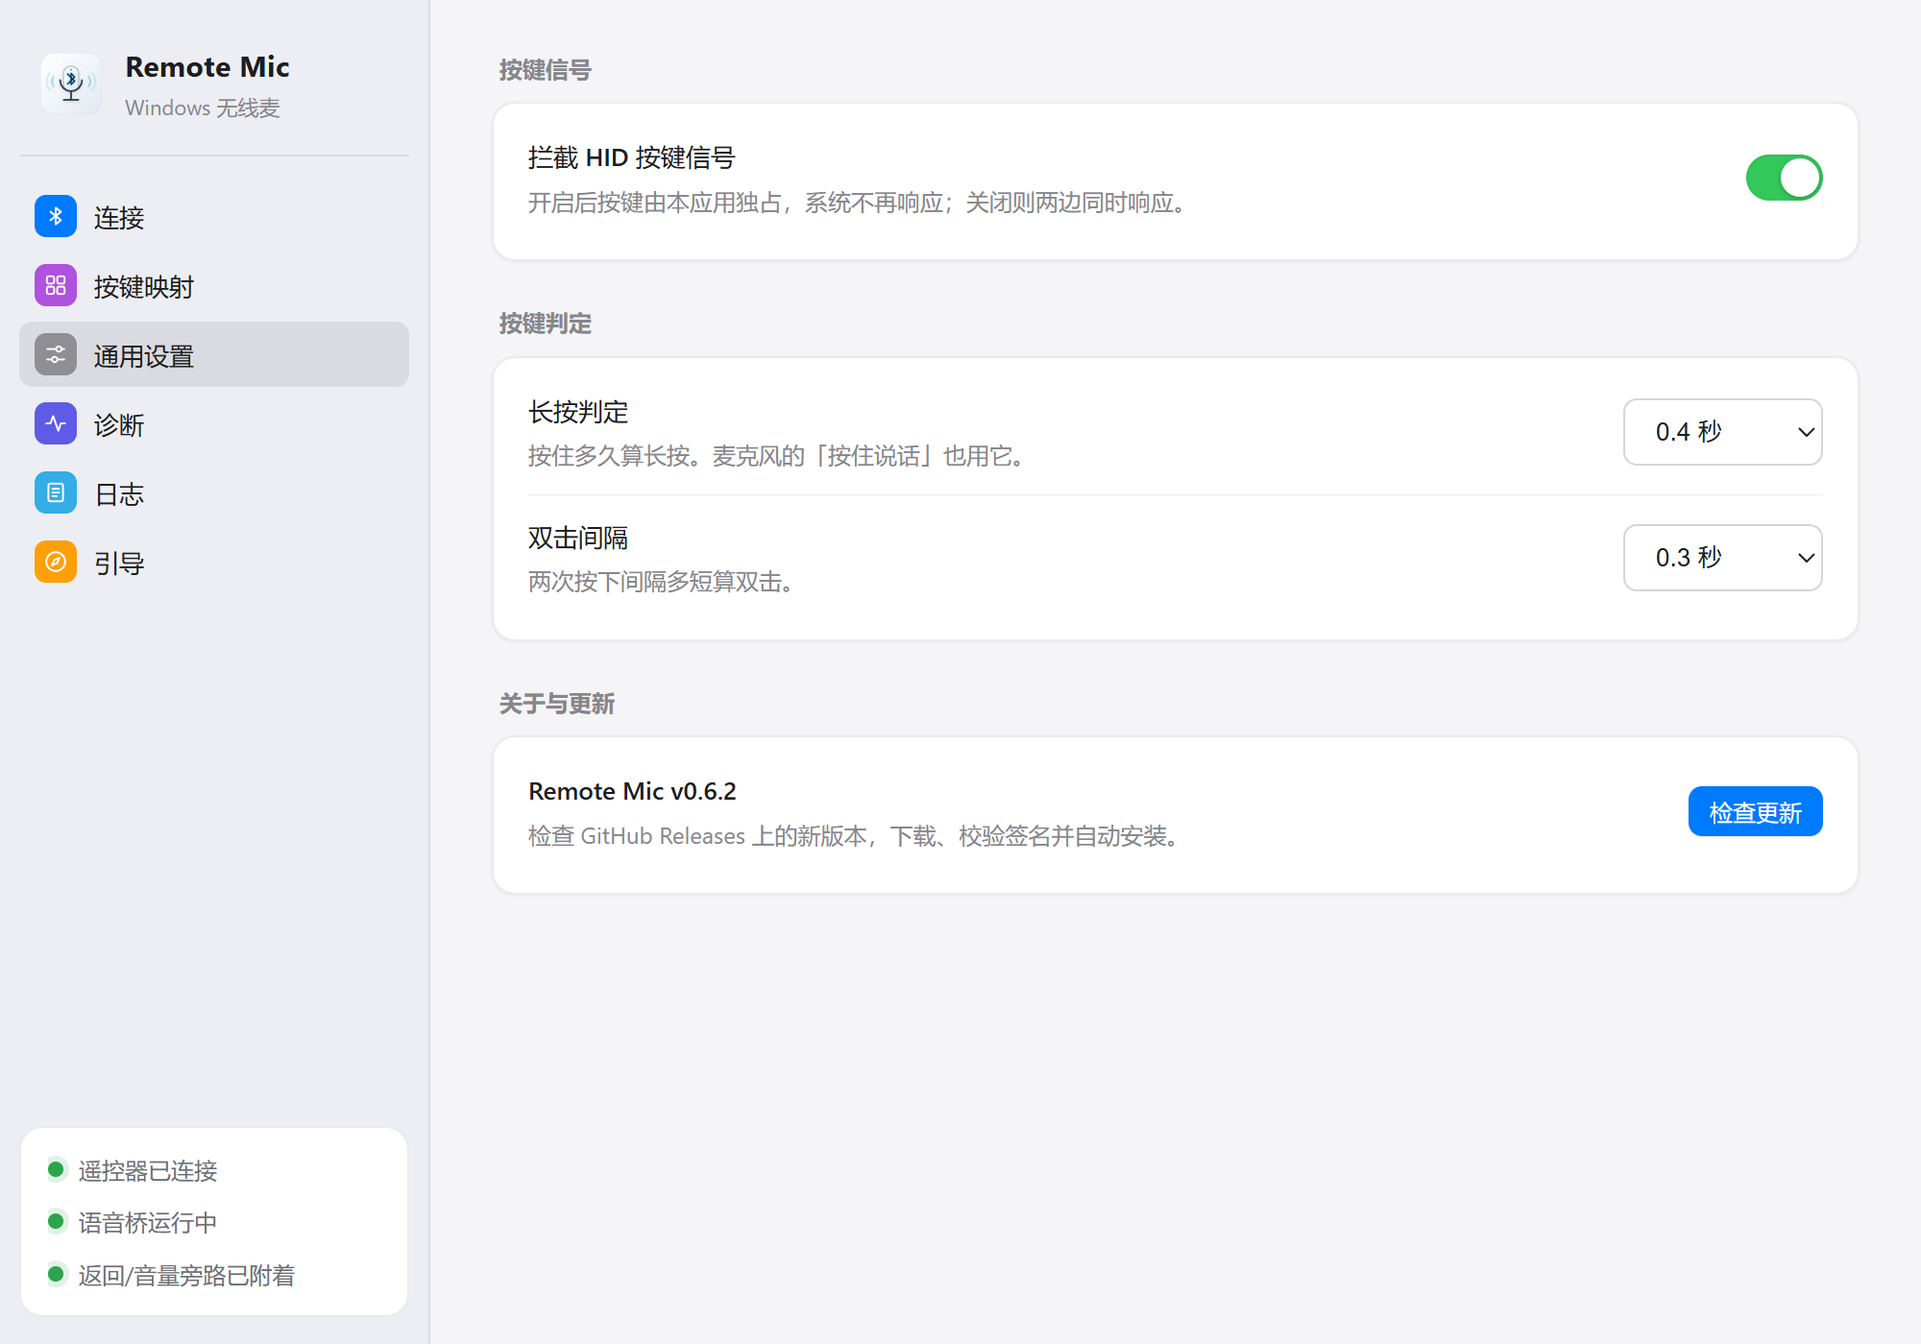
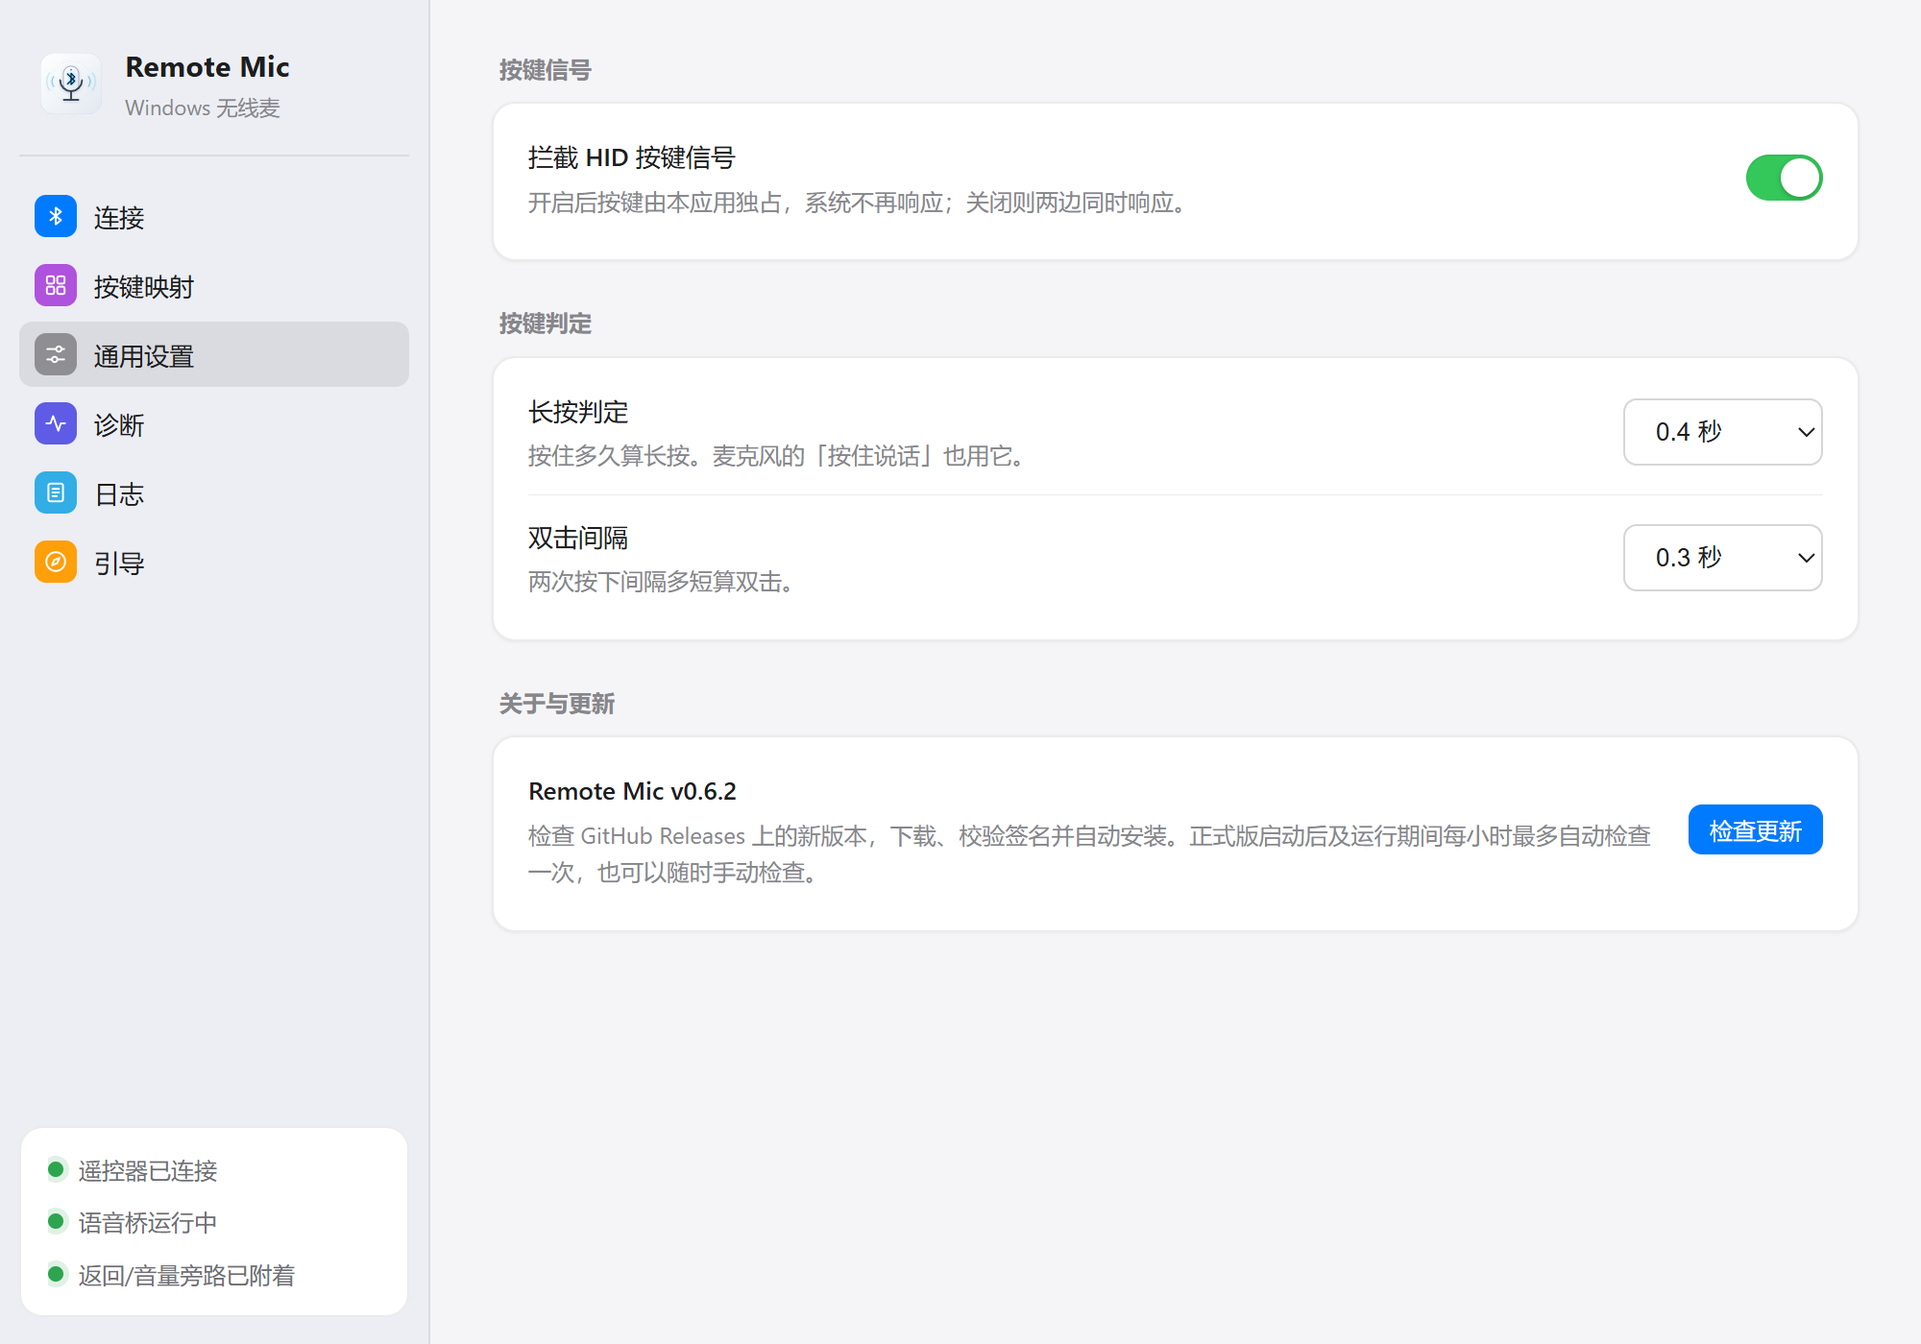
feat: 自动更新检查节奏（启动立即 + 30 分钟复查 + 1 小时联网门槛）
- 启动后立即异步检查一次（去掉原来的 6 秒延迟，不阻塞窗口显示）
- 运行期间每 30 分钟定时复查一次
- 启动检查与定时复查都要求距上次成功检查 ≥1 小时才真正联网，否则跳过；
  手动「检查更新」不受频率限制
- 上次成功检查时间持久化到 config.json 的 last_update_check_at（Unix 秒），
  重启后仍然生效；检查失败不更新时间戳
- 新增 commands/update.rs（get/set_last_update_check_at），core-config 加字段并补
  向后兼容与往返测试；更新设置页说明、自动更新文档、AGENTS、CHANGELOG、任务清单、
  真机验收与真机截图

Changed region(s): [[0.62, 0.5836, 0.961, 0.645], [0.31, 0.645, 0.434, 0.6757]]

diff --git a/src/store/updateStatus.ts b/src/store/updateStatus.ts
@@ -15,6 +15,12 @@ import { useSyncExternalStore } from "react";
  *     -> Windows 上安装器会自动关闭本应用、完成安装并重启新版本。
  *
  * 因此这里**不需要**自己调用 restart：`downloadAndInstall` 成功时应用即退出。
+ *
+ * 检查时机与频率（仅正式构建；手动检查任何时候都可点）：
+ *   - 启动后立即异步检查一次（不延迟、不阻塞窗口）；
+ *   - 运行期间每 30 分钟复查一次；
+ *   - 启动检查 / 定时复查都要求距上次成功检查 ≥1 小时才真正发请求；
+ *   - 上次成功检查时间持久化在 `config.json`（`last_update_check_at`），重启后依然生效。
  */
 export type UpdatePhase =
   | "idle"
@@ -88,6 +94,25 @@ export function isUpdateBusy(phase: UpdatePhase): boolean {
   return phase === "checking" || phase === "downloading" || phase === "installing";
 }
 
+/** 自动检查的最小联网间隔：距上次成功检查不足 1 小时就不发请求。 */
+const AUTO_CHECK_MIN_INTERVAL_MS = 60 * 60 * 1000;
+/** 运行期间复查定时器：每 30 分钟唤醒一次，实际联网仍受上面的 1 小时门槛限制。 */
+const AUTO_CHECK_TIMER_MS = 30 * 60 * 1000;
+
+/** 自动检查（启动 / 定时）是否已过「距上次成功检查 ≥1 小时」的门槛；手动检查不走这里。 */
+function autoCheckDue(): boolean {
+  return Date.now() - state.lastCheckedAt >= AUTO_CHECK_MIN_INTERVAL_MS;
+}
+
+/** 记录一次成功的检查（有更新 / 无更新都算），并持久化时间戳供重启后节流。 */
+function recordCheckSuccess(patch: Partial<UpdateState>) {
+  const now = Date.now();
+  setState({ ...patch, lastCheckedAt: now });
+  void invoke("set_last_update_check_at", {
+    timestamp: Math.floor(now / 1000),
+  }).catch(() => {});
+}
+
 async function closePendingUpdate() {
   const update = pendingUpdate;
   pendingUpdate = null;
@@ -119,15 +144,14 @@ async function runCheck(options: { silent: boolean }): Promise<void> {
   try {
     const update = await check({ timeout: 30_000 });
     if (!update) {
-      setState({ phase: "up-to-date", lastCheckedAt: Date.now() });
+      recordCheckSuccess({ phase: "up-to-date" });
       return;
     }
     pendingUpdate = update;
-    setState({
+    recordCheckSuccess({
       phase: "available",
       newVersion: update.version,
       notes: update.body ?? "",
-      lastCheckedAt: Date.now(),
     });
   } catch (err) {
     // 启动时的静默检查失败不打扰用户（离线、代理、旧版本还没有 latest.json 都很常见）；
@@ -231,7 +255,13 @@ export async function downloadAndInstallUpdate(): Promise<void> {
 }
 
 /**
- * 初始化：读取当前版本；正式构建下延迟做一次静默检查。
+ * 初始化：读取当前版本与上次成功检查时间，然后启动自动检查。
+ *
+ * 自动检查策略（仅正式构建）：
+ *   - 启动后**立即**异步检查一次，不延迟、不阻塞窗口；
+ *   - 运行期间每 30 分钟复查一次；
+ *   - 启动检查与定时复查都要求距上次成功检查 ≥1 小时才真正联网，否则直接跳过；
+ *   - 手动「检查更新」不受频率限制。
  *
  * 幂等：App 的 effect 在严格模式 / HMR 下可能触发多次。
  */
@@ -244,13 +274,28 @@ export function initUpdateStatus(): void {
     .then((version) => setState({ currentVersion: version }))
     .catch(() => {});
 
-  // 开发模式（vite dev）下不自动检查：避免每次热更新都打一次 GitHub API，
-  // 也给「检查更新」按钮保留一个可复现的手动入口。
-  if (import.meta.env.PROD) {
-    window.setTimeout(() => {
-      if (state.phase === "idle") {
-        void runCheck({ silent: true }).catch(() => {});
-      }
-    }, 6000);
+  // 先读回「上次成功检查」时间，再决定启动时要不要真的联网。
+  invoke<number>("get_last_update_check_at")
+    .then((timestamp) => {
+      if (timestamp > 0) setState({ lastCheckedAt: timestamp * 1000 });
+    })
+    .catch(() => {})
+    .finally(() => {
+      // 开发模式（vite dev）下不自动检查：避免每次热更新都打一次 GitHub，
+      // 也给「检查更新」按钮保留一个可复现的手动入口。
+      if (!import.meta.env.PROD) return;
+      startAutoUpdateChecks();
+    });
+}
+
+/** 启动自动检查：启动立即查一次 + 运行期间每 30 分钟复查（均受 1 小时门槛限制）。 */
+function startAutoUpdateChecks() {
+  if (autoCheckDue()) {
+    void runCheck({ silent: true }).catch(() => {});
   }
+  window.setInterval(() => {
+    if (autoCheckDue() && !isUpdateBusy(state.phase)) {
+      void runCheck({ silent: true }).catch(() => {});
+    }
+  }, AUTO_CHECK_TIMER_MS);
 }

diff --git a/src/pages/SettingsPage.tsx b/src/pages/SettingsPage.tsx
@@ -125,7 +125,7 @@ export function SettingsPage() {
       case "error":
         return update.error || "检查更新失败，请稍后重试。";
       default:
-        return "检查 GitHub Releases 上的新版本，下载、校验签名并自动安装。";
+        return "检查 GitHub Releases 上的新版本，下载、校验签名并自动安装。正式版启动后及运行期间每小时最多自动检查一次，也可以随时手动检查。";
     }
   })();
 

diff --git a/crates/core-config/src/lib.rs b/crates/core-config/src/lib.rs
@@ -62,6 +62,12 @@ pub struct Config {
     /// 让它读成空列表，不会因为加字段而丢掉整个配置。
     #[serde(default)]
     pub shortcuts: Vec<NamedShortcut>,
+    /// 上次**成功**检查更新的 Unix 秒时间戳（0 表示还没成功检查过）。
+    ///
+    /// 自动检查（启动 / 运行中定时）要求距上次成功检查 ≥1 小时才真正联网；
+    /// 手动点「检查更新」不受此限制。放这里是为了重启后仍然生效。
+    #[serde(default)]
+    pub last_update_check_at: u64,
 }
 
 fn default_hid_tap_eat() -> bool {
@@ -87,6 +93,7 @@ impl Default for Config {
             double_click_ms: 300,
             voice_target: VoiceTarget::default(),
             shortcuts: Vec::new(),
+            last_update_check_at: 0,
         }
     }
 }
@@ -258,6 +265,20 @@ mod tests {
         .unwrap();
         let cfg = store.load().unwrap();
         assert_eq!(cfg.voice_target, VoiceTarget::WindowsVoice);
+        // 「上次成功检查更新」是后加的字段：旧配置读成 0（从未检查）。
+        assert_eq!(cfg.last_update_check_at, 0);
+    }
+
+    #[test]
+    fn update_check_timestamp_roundtrip() {
+        let (_dir, store) = temp_store();
+        let cfg = Config {
+            last_update_check_at: 1_760_000_000,
+            ..Config::default()
+        };
+        store.save(&cfg).unwrap();
+        let loaded = store.load().unwrap();
+        assert_eq!(loaded.last_update_check_at, 1_760_000_000);
     }
 
     #[test]

diff --git a/src-tauri/src/commands/update.rs b/src-tauri/src/commands/update.rs
@@ -1,0 +1,27 @@
+//! 自动更新的持久化状态。
+//!
+//! 更新时间戳放在 `config.json` 里而不是前端 localStorage：重启后仍要遵守
+//! 「自动检查距上次成功检查 ≥1 小时才联网」的门槛，且配置持久化只有一个出口
+//! （`core-config` 的原子写入 + .bak 回退）。
+
+use crate::config_store;
+
+/// 上次成功检查更新的 Unix 秒时间戳；0 表示还没成功检查过。
+#[tauri::command]
+pub fn get_last_update_check_at() -> u64 {
+    config_store()
+        .map(|store| store.load_or_default().last_update_check_at)
+        .unwrap_or(0)
+}
+
+/// 记录一次成功的更新检查结果（成功 = 请求返回并解析出「有更新 / 无更新」）。
+///
+/// 用 `load()` 而不是 `load_or_default()`：配置真的损坏时宁可不写，也不要拿默认
+/// 配置覆盖掉用户还能从 `.bak` 恢复的数据。
+#[tauri::command]
+pub fn set_last_update_check_at(timestamp: u64) -> Result<(), String> {
+    let store = config_store().ok_or_else(|| "无法创建配置目录".to_string())?;
+    let mut cfg = store.load().map_err(|e| e.to_string())?;
+    cfg.last_update_check_at = timestamp;
+    store.save(&cfg).map_err(|e| e.to_string())
+}

diff --git a/src-tauri/src/lib.rs b/src-tauri/src/lib.rs
@@ -618,6 +618,8 @@ pub fn run() {
             ping,
             app_version,
             prepare_for_update_exit,
+            commands::update::get_last_update_check_at,
+            commands::update::set_last_update_check_at,
             commands::connection::scan_for_rc003,
             commands::connection::connect_rc003,
             commands::connection::get_runtime_status,

diff --git a/src-tauri/src/commands/mod.rs b/src-tauri/src/commands/mod.rs
@@ -6,3 +6,4 @@ pub mod log;
 pub mod mapping;
 pub mod mapping_catalog;
 pub mod quick_menu;
+pub mod update;

diff --git a/docs/项目/自动更新.md b/docs/项目/自动更新.md
@@ -9,7 +9,8 @@
 
 1. 发布工作流在 GitHub Release 里上传带**更新签名**的 NSIS 安装包（`Remote.Mic_<ver>_x64-setup.exe.sig`）
    和静态清单 `latest.json`。
-2. 应用启动后（仅正式构建，延迟 6 秒）或用户点「检查更新」时，请求
+2. 应用启动后（仅正式构建）**立即异步检查一次**，运行期间每 30 分钟复查一次；两种自动检查
+   都要求距上次成功检查 ≥1 小时才真正联网，手动点「检查更新」不受限制。检查时请求
    `https://github.com/poluce/windows-remote-mic/releases/latest/download/latest.json`。
 3. 发现更高版本后，用户在「通用设置 → 关于与更新」点「下载并安装」：
    下载安装包 → 用配置里的公钥校验 minisign 签名 → 解压到临时目录并拉起 NSIS 安装器。
@@ -20,6 +21,20 @@
 
 检查到更新时侧栏「通用设置」会出现一个蓝点提示；更新状态只在
 `src/store/updateStatus.ts` 维护一份，页面切换不会丢进度。
+
+### 1.1 检查时机与频率
+
+| 时机 | 行为 |
+| --- | --- |
+| 应用启动（窗口创建后初始化更新状态） | 立即异步检查一次，不延迟、不阻塞窗口显示 |
+| 运行期间 | 每 30 分钟定时复查一次 |
+| 实际联网门槛（启动 / 定时） | 距上次**成功**检查不足 1 小时则直接跳过，不发请求 |
+| 手动「检查更新」 | 不受任何频率限制，立即检查 |
+
+因此稳定状态下实际联网频率是：**启动时一次**（若距上次成功检查已超 1 小时）**+ 运行中约每小时一次**
+（30 分钟 tick 里有一次会被 1 小时门槛挡掉）。「上次成功检查」时间持久化在 `config.json` 的
+`last_update_check_at`（Unix 秒，0 = 从未检查），重启后门槛依然生效；检查失败不更新时间戳，
+所以断网时每个 30 分钟 tick 都可能重试，直到成功。
 
 ## 2. 版本与依赖（重要）
 
@@ -43,7 +58,7 @@
 | `src/store/updateStatus.ts` | 更新状态单一事实来源（phase / 版本 / 下载进度 / 错误文案） |
 | `src/pages/SettingsPage.tsx` | 「关于与更新」区块：检查、下载安装、进度与错误提示 |
 | `src/components/Sidebar.tsx` + `App.css` | 发现新版本时「通用设置」旁的小圆点 |
-| `src/App.tsx` | 启动时初始化更新状态（正式构建会自动静默检查一次） |
+| `src/App.tsx` | 启动时初始化更新状态（正式构建会立即静默检查，运行中每 30 分钟复查） |
 | `.github/workflows/release.yml` | 带签名的发布构建、校验 `.sig`、生成并上传 `latest.json` |
 | `scripts/generate-updater-manifest.ps1` | 生成 `latest.json`（本地可单独测试） |
 | `scripts/setup-updater-signing.ps1` | 生成/轮换签名密钥并写入 GitHub Secrets |

diff --git a/AGENTS.md b/AGENTS.md
@@ -23,7 +23,8 @@ Remote Mic 是一个 Windows 桌面应用，目标是把「小米蓝牙语音遥
 - 发布产物：NSIS 安装包 `Remote.Mic_<ver>_x64-setup.exe`、免安装 `remote-mic.exe`、`SHA256SUMS.txt`，
   以及自动更新用的 `Remote.Mic_<ver>_x64-setup.exe.sig`、`latest.json`（见 [docs/项目/自动更新.md](docs/项目/自动更新.md)）。
 - 自动更新：应用内「通用设置 → 关于与更新」可检查 / 下载 / 安装新版本（Tauri v2 updater，NSIS passive 安装，需 UAC）；
-  正式构建启动后会静默检查一次。
+  正式构建启动后立即静默检查一次，运行期间每 30 分钟复查；自动检查距上次成功检查 ≥1 小时才真正联网，
+  手动检查不受频率限制（时间戳持久化在 `config.json` 的 `last_update_check_at`）。
 - 安装包**未做代码签名**，首次运行 SmartScreen 提示「未知发布者」属预期；虚拟 HID 驱动为测试签名，安装器会把随包证书装入本机信任库。
 - 已知未解决问题：**ATVV 通知偶发丢失**（HID 正常、收不到语音包），见 §10。
 
@@ -177,7 +178,8 @@ v0.6.2 基线：workspace 测试 **179** 个、app crate 测试 **8** 个。
 - 配置持久化到 `%LOCALAPPDATA%\RemoteMic\RC003\config.json`：
   - 原子写入；损坏时自动回退 `config.json.bak`（上一次成功保存）。
   - 关键字段：`mapping`、`key_calibrations`、`selected_device_id`、`hid_tap_eat`、
-    `long_press_ms`（默认 550）、`double_click_ms`（默认 300）、`voice_target`、`shortcuts`。
+    `long_press_ms`（默认 550）、`double_click_ms`（默认 300）、`voice_target`、`shortcuts`、
+    `last_update_check_at`（上次成功检查更新的 Unix 秒，自动更新节流用）。
 - 触发方式（5 种）：**单击 / 双击 / 长按 / 按下 / 松开**；麦克风只有「按下 / 松开」（PTT）。
 - 映射目录由后端 `get_mapping_catalog` 返回：
   - 13 个按键（顺序与前端矩阵一致：电源、麦克风、上、左、确定、右、下、返回、音量+、主页、音量−、菜单、TV）；

diff --git a/docs/项目/真机验收.md b/docs/项目/真机验收.md
@@ -93,7 +93,7 @@
 
 | 编号 | 验收项 | 结果 | 备注 |
 | --- | --- | --- | --- |
-| 7.1 | 正式构建启动后静默检查更新（无更新时不打扰） | ⬜ | 发版后验证 |
+| 7.1 | 正式构建启动后立即静默检查；运行中每 30 分钟复查，均需距上次成功检查 ≥1 小时 | ⬜ | 发版后看网络/日志验证 |
 | 7.2 | 「通用设置 → 关于与更新」显示当前版本号与「检查更新」 | ✅ | 2026-10-22 dev 实例 UI 实测，截图 `设置-关于与更新.png` |
 | 7.3 | 手动检查发现新版本，显示更新说明，侧栏出现提示点 | ✅ | 2026-10-22 用本地 mock `latest.json` 验证，截图 `设置-发现新版本.png` |
 | 7.4 | 下载进度、下载失败提示正常 | ⬜ | 失败提示已验证；进度待真机 |
@@ -101,6 +101,7 @@
 | 7.6 | UAC 拒绝：应用不退出、错误提示可重试 | ⬜ |  |
 | 7.7 | 更新后驱动 / HOGP 旁路 / 配置保留 | ⬜ | `hooks.nsh` 会重装驱动，重点验证 |
 | 7.8 | 每个 Release 带 `.exe.sig` 与 `latest.json` | ⬜ | 发版后 `gh release view` 核对 |
+| 7.9 | 成功检查后 `config.json` 的 `last_update_check_at` 更新；1 小时内重启不重复联网 | ⬜ | 检查配置文件时间戳 |
 
 > 2026-10-22：dev 实例已实机验证 7.2 / 7.3（本地 mock endpoint）；全链路（7.5 / 7.7）
 > 需发版后按 `docs/项目/自动更新.md` §9 验收。

diff --git a/CHANGELOG.md b/CHANGELOG.md
@@ -21,7 +21,8 @@
 ## [Unreleased]
 
 ### 新增
-- **自动更新**：接入 Tauri v2 updater。正式构建启动后会静默检查一次更新，也可在
+- **自动更新**：接入 Tauri v2 updater。正式构建启动后立即静默检查一次，运行期间每 30 分钟复查
+  （自动检查距上次成功检查 ≥1 小时才联网，手动检查不受限）；也可在
   「通用设置 → 关于与更新」手动检查、查看更新说明、下载并安装；安装包使用独立的 minisign 密钥签名，
   下载后校验通过才会执行。NSIS 以 passive 模式安装，完成后自动重启应用；发现新版本时侧栏「通用设置」显示提示点。
   - 发布工作流新增：带签名的 updater 构建、`.exe.sig` 校验、`latest.json` 生成与上传；

diff --git a/docs/项目/任务清单.md b/docs/项目/任务清单.md
@@ -181,7 +181,7 @@
   - [ ] SmartScreen 提示文档
   - [ ] 可选：公共 CA / EV 签名评估
 - [x] 自动更新方案（Tauri v2 updater + 应用内「关于与更新」+ GitHub Release `latest.json`）
-  - [x] 应用内检查 / 下载 / 安装 + 启动静默检查 + 侧栏提示点
+  - [x] 应用内检查 / 下载 / 安装 + 启动立即检查 / 运行中每 30 分钟复查（≥1 小时门槛）+ 侧栏提示点
   - [x] 更新签名密钥生成与 GitHub Secrets 配置（`scripts/setup-updater-signing.ps1`）
   - [x] CI 生成并上传 `latest.json` / `*.exe.sig`（`scripts/generate-updater-manifest.ps1`）
   - [ ] 真机验收：安装版「检查→下载→UAC→passive 安装→自动重启」全链路，以及更新后驱动 / HOGP 旁路仍正常
